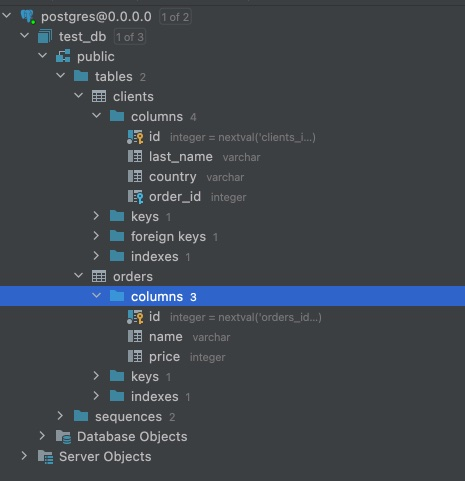
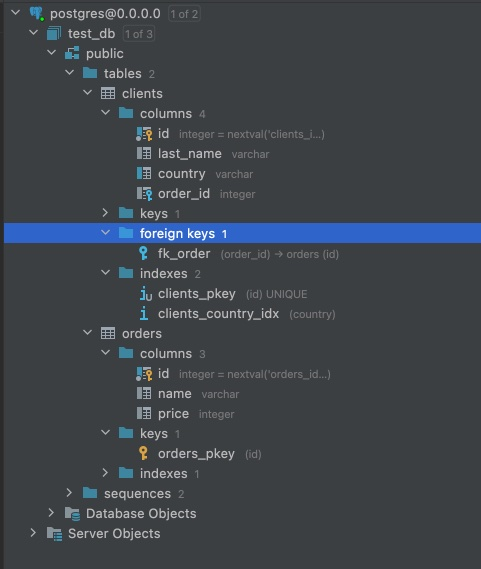
TASK-18: update 6.2-SQL.md add info and assets for task 2

Changed region(s): [[0.0, 0.0, 1.0, 0.9667], [0.3613, 0.0, 0.3914, 0.0624], [0.5118, 0.7796, 0.5419, 0.8108]]

diff --git a/2-virt-homeworks/6.2-SQL/6.2-SQL.md b/2-virt-homeworks/6.2-SQL/6.2-SQL.md
@@ -85,6 +85,9 @@ CREATE TABLE clients (
 	    REFERENCES orders(id)
 );
 
+-- Создание индекса для таблицы clients(country)
+CREATE INDEX ON clients(country);
+
 -- Просмотр структуры таблицы orders
 SELECT table_name, column_name, data_type FROM information_schema.columns WHERE table_name = 'orders';
 
@@ -102,7 +105,7 @@ GRANT SELECT, INSERT, UPDATE, DELETE ON orders, clients TO "test-simple-user";
 -- Проверяем права пользователя test-simple-user к таблицам orders и clients
 SELECT * FROM information_schema.role_table_grants WHERE table_name IN ('orders', 'clients') and grantee = 'test-simple-user';
 
--- Проверяем список пользователей у которых есть права к база данных test_db
+-- Проверяем список пользователей у которых есть права к базе данных test_db
 SELECT DISTINCT grantee FROM information_schema.table_privileges where table_catalog = 'test_db'
 ```
 
